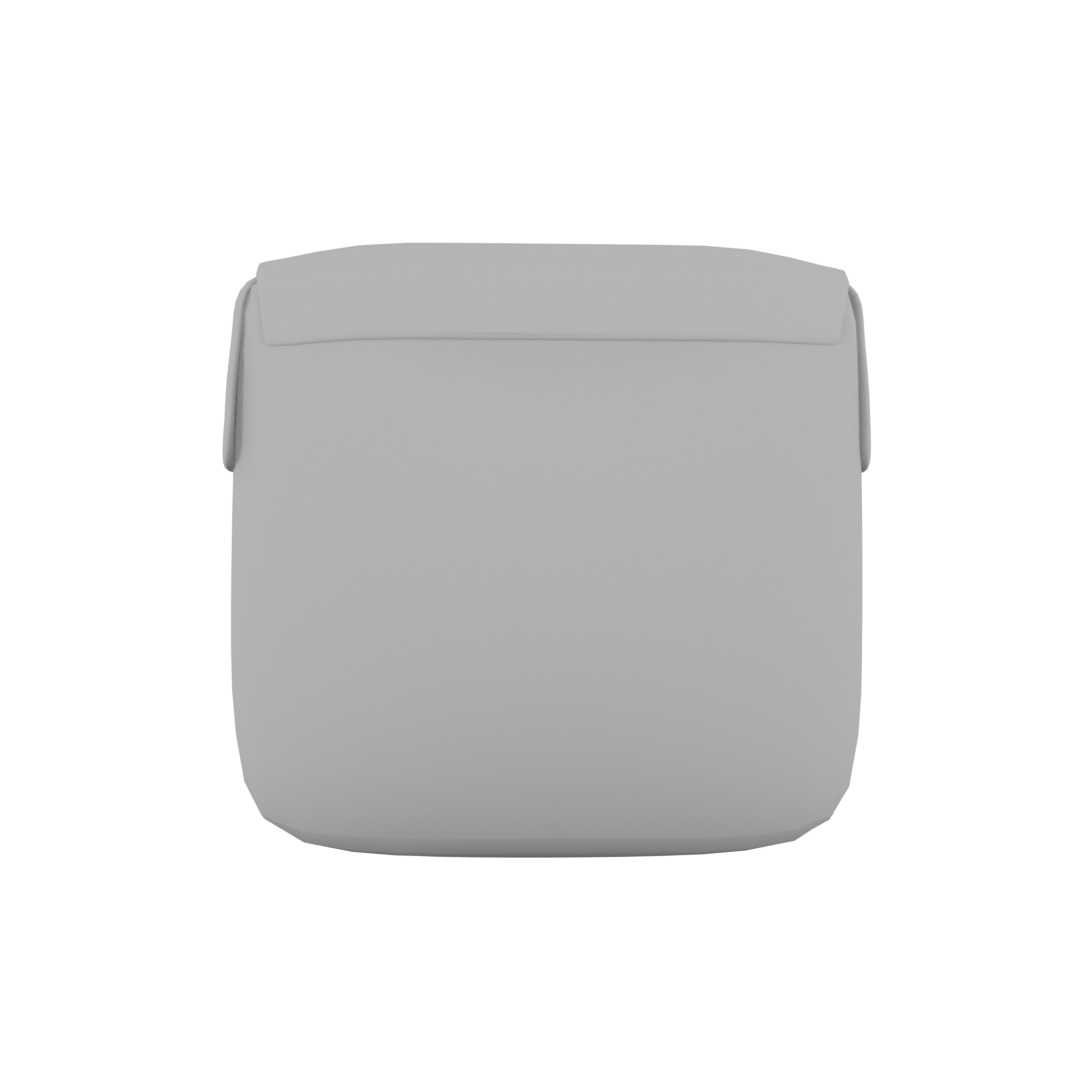
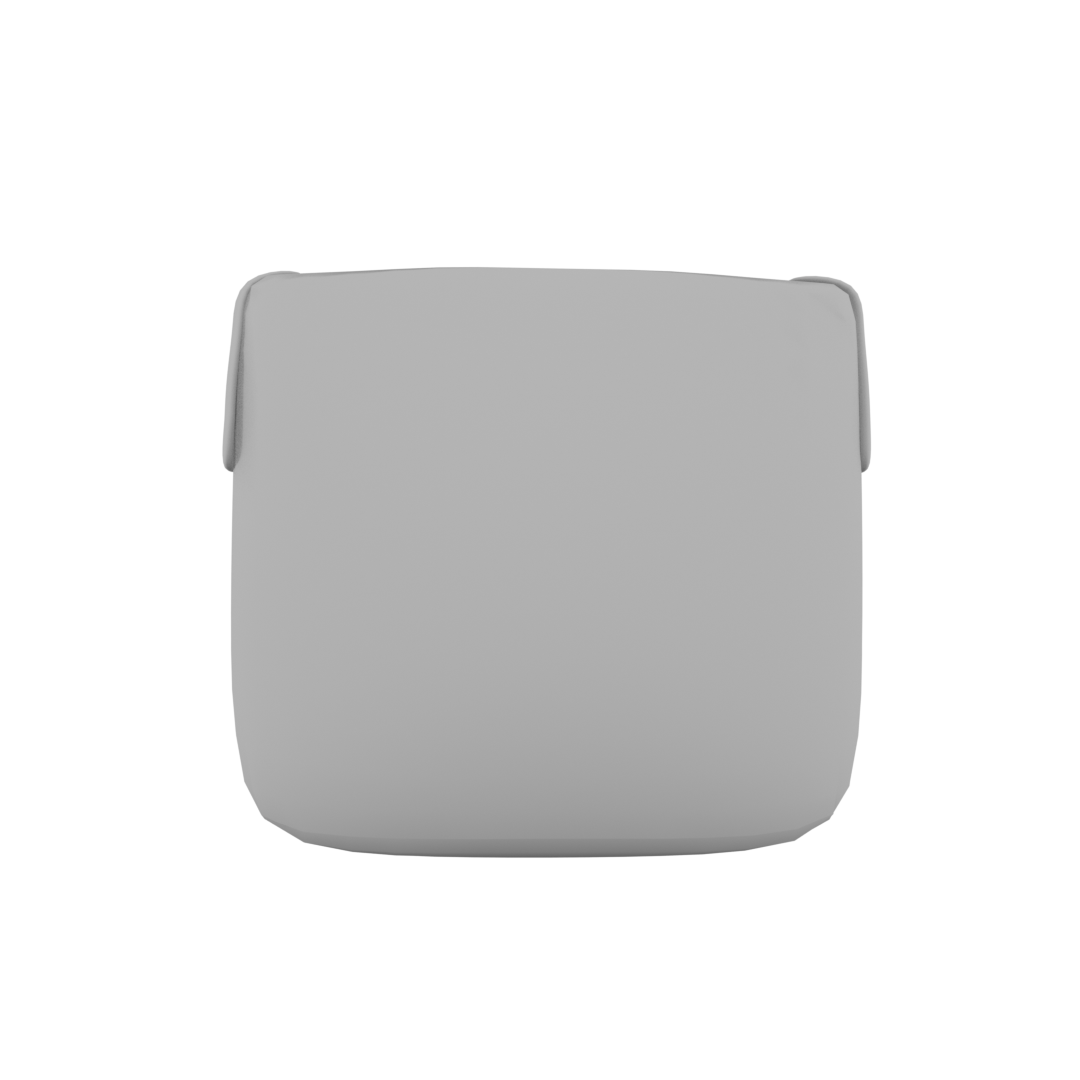
change kompartemen and fixing detail part

Changed region(s): [[0.2444, 0.2139, 0.7944, 0.275]]

diff --git a/Frontend/src/components/ProtoV2/BagCustomizer3D.tsx b/Frontend/src/components/ProtoV2/BagCustomizer3D.tsx
@@ -8,7 +8,8 @@ import Breadcrumb from "../Common/Breadcrumb";
 const COLOR_PALETTE = [
   { id: "badan", name: "Badan Tas", canHide: false, colorsSolid: ["#4B5563", "#60A5FA", "#F472B6"], colorsLeather: ["#AC7434", "#88572B", "#612718", "#654321", "#954535", "#C4B289"] },
   { id: "tali", name: "Tali Bahu", colors: ["#000000", "#FFFFFF"], canHide: false },
-  { id: "telinga", name: "Telinga Tas", canHide: true, colorsSolid: ["#EF4444", "#A855F7", "#22C55E"], colorsLeather: ["#AC7434", "#88572B", "#612718", "#654321", "#954535", "#C4B289"] },
+  { id: "tali2", name: "Tali Bahu", colors: ["#000000", "#FFFFFF"], canHide: false },
+  { id: "telinga", name: "Telinga Tas (Penutup)", canHide: true, colorsSolid: ["#EF4444", "#A855F7", "#22C55E"], colorsLeather: ["#AC7434", "#88572B", "#612718", "#654321", "#954535", "#C4B289"] },
   { id: "sayap", name: "Sayap Tas", colors: ["#000000", "#4B5563", "#DC2626"], canHide: true },
   { id: "detail", name: "Detail (Mata & Taring)", colors: ["#FCD34D", "#FFFFFF", "#000000"], canHide: true },
 ];
@@ -24,18 +25,19 @@ const PREMIUM_COLORS = ["#60A5FA", "#F472B6", "#EF4444", "#A855F7", "#22C55E", "
 
 export default function BagCustomizer3D() {
   const [colors, setColors] = useState<Record<string, string>>({
-    badan: "#F472B6", tali: "#FFFFFF", telinga: "#22C55E", sayap: "#000000", detail: "#FCD34D",
+    badan: "#F472B6", tali: "#FFFFFF",tali2: "#FFFFFF", telinga: "#22C55E", sayap: "#000000", detail: "#FCD34D",
   });
 
   const [visibleParts, setVisibleParts] = useState<Record<string, boolean>>({
-    badan: true, tali: true, telinga: true, sayap: true, detail: true,
+    badan: true, tali: true,tali2: true, telinga: true, sayap: true, detail: true,
   });
 
-  const [activeView, setActiveView] = useState("360");
+  const [activeView, setActiveView] = useState("depan"); // Diubah ke "depan" untuk testing awal
   
-  // Dua State terpisah untuk Material
+  // STATE MATERIAL DAN KOMPARTEMEN
   const [bodyMaterial, setBodyMaterial] = useState("base");
   const [telingaMaterial, setTelingaMaterial] = useState("base");
+  const [kompartemen, setKompartemen] = useState("kancing"); // "kancing" atau "pengait"
 
   const handleColorChange = (partId: string, colorHex: string) => {
     setColors((prev) => ({ ...prev, [partId]: colorHex }));
@@ -53,27 +55,33 @@ export default function BagCustomizer3D() {
     } else if (partId === "telinga") {
       setTelingaMaterial(materialType);
       if (materialType === "base") setColors(prev => ({ ...prev, telinga: "#22C55E" }));
-      else if (materialType === "leather") setColors(prev => ({ ...prev, telinga: "#654321" })); // Default Leather beda agar kontras
+      else if (materialType === "leather") setColors(prev => ({ ...prev, telinga: "#654321" }));
     }
   };
 
   const calculatePrice = () => {
     let total = 850000; 
+    
+    // Biaya Tambahan Komponen
     if (visibleParts.telinga) {
       total += 100000; 
-      // Tambah harga jika penutupnya dari Leather
       if (telingaMaterial === "leather") total += 75000; 
     }
     if (visibleParts.sayap) total += 200000;   
     if (visibleParts.detail) total += 50000;   
 
-    // Tambah harga jika badannya Leather
+    // Biaya Tambahan Material Badan
     if (bodyMaterial === "leather") total += 150000; 
 
+    // Biaya Tambahan Pengait
+    if (kompartemen === "pengait") total += 50000; // Hardware pengait tambah Rp 50.000
+
+    // Biaya Warna Premium
     Object.entries(colors).forEach(([part, hex]) => {
-      const isPartActive = visibleParts[part] || part === "badan" || part === "tali";
+      const isPartActive = visibleParts[part] || part === "badan" || part === "tali"  || part === "tali2";
       if (isPartActive && PREMIUM_COLORS.includes(hex)) total += 25000; 
     });
+    
     return total;
   };
 
@@ -91,15 +99,16 @@ export default function BagCustomizer3D() {
         <div className="max-w-[1280px] w-full mx-auto px-4 sm:px-6 lg:px-8">
           <div className="flex flex-col lg:flex-row bg-white rounded-xl shadow-[0_4px_20px_rgba(0,0,0,0.03)] border border-gray-100 overflow-hidden lg:h-[750px]">
             
+            {/* KIRI: PREVIEW AREA */}
             <div className="w-full lg:w-[55%] p-6 lg:p-10 border-b lg:border-b-0 lg:border-r border-gray-100 relative flex flex-col bg-[#f8f9fa] overflow-hidden">
               <div className="absolute w-[600px] h-[600px] rounded-full bg-[radial-gradient(circle,rgba(0,102,255,0.04)_0%,transparent_70%)] pointer-events-none left-1/2 top-1/2 -translate-x-1/2 -translate-y-1/2"></div>
 
               <div className="flex-grow flex flex-col items-center justify-center w-full relative z-10 pt-4">
                 {activeView === "360" && <ProductViewer colors={colors} visibleParts={visibleParts} bodyMaterial={bodyMaterial} />}
-                {activeView === "depan" && <FrontViewer colors={colors} visibleParts={visibleParts} bodyMaterial={bodyMaterial} telingaMaterial={telingaMaterial} />}
+                {/* PROPS KOMPARTEMEN DIKIRIM KE FRONTVIEWER */}
+                {activeView === "depan" && <FrontViewer colors={colors} visibleParts={visibleParts} bodyMaterial={bodyMaterial} telingaMaterial={telingaMaterial} kompartemen={kompartemen} />}
                 {activeView === "belakang" && <BackViewer colors={colors} visibleParts={visibleParts} bodyMaterial={bodyMaterial} telingaMaterial={telingaMaterial} />}
-                {activeView === "atas" && <TopViewer colors={colors} visibleParts={visibleParts} bodyMaterial={bodyMaterial} />}
-              </div>
+{activeView === "atas" && <TopViewer colors={colors} visibleParts={visibleParts} bodyMaterial={bodyMaterial} kompartemen={kompartemen} />}              </div>
 
               <div className="mt-6 flex justify-center z-20 pb-2">
                 <div className="flex items-center gap-3 bg-[#f8f9fa] px-4 py-2.5 rounded-2xl border border-[#cbd5e1] shadow-sm">
@@ -119,13 +128,40 @@ export default function BagCustomizer3D() {
               </div>
             </div>
 
+            {/* KANAN: CONTROL PANEL */}
             <div className="w-full lg:w-[45%] flex flex-col h-full bg-white">
                <div className="px-8 lg:px-12 pt-10 pb-6 border-b border-gray-100">
                 <h2 className="text-[32px] font-extrabold text-[#111827] mb-2 tracking-tight">Design Your Bag</h2>
-                <p className="text-[#6b7280] text-[15px] leading-relaxed">Sesuaikan warna dan material tas.</p>
+                <p className="text-[#6b7280] text-[15px] leading-relaxed">Sesuaikan warna, material, dan aksesoris tas.</p>
               </div>
 
               <div className="flex-grow overflow-y-auto px-8 lg:px-12 py-6 flex flex-col gap-7 scrollbar-thin scrollbar-thumb-gray-200 scrollbar-track-transparent">
+                
+                {/* TAMBAHAN UI: PILIHAN KOMPARTEMEN (KANCING/PENGAIT) */}
+                <div className="pb-7 border-b border-gray-100">
+                  <div className="flex items-center justify-between mb-4">
+                    <div className="flex items-center gap-3 font-bold text-[#111827] text-[13px] uppercase tracking-wider">
+                      <span>Tipe Kompartemen</span>
+                    </div>
+                  </div>
+                  <div className="flex bg-[#f1f5f9] p-1 rounded-lg w-max">
+                    <button 
+                      onClick={() => setKompartemen("kancing")} 
+                      className={`px-6 py-2 text-[13px] font-bold rounded-md transition-all duration-200 ${kompartemen === "kancing" ? "bg-white text-[#4154f1] shadow-sm" : "text-gray-500 hover:text-[#4154f1]"}`}
+                    >
+                      Kancing
+                    </button>
+                    <button 
+                      onClick={() => setKompartemen("pengait")} 
+                      className={`px-6 py-2 text-[13px] font-bold rounded-md transition-all duration-200 ${kompartemen === "pengait" ? "bg-white text-[#4154f1] shadow-sm" : "text-gray-500 hover:text-[#4154f1]"}`}
+                      title="+ Rp 50.000"
+                    >
+                      Pengait Sabuk
+                    </button>
+                  </div>
+                </div>
+
+                {/* LOOPING WARNA PALETTE */}
                 {COLOR_PALETTE.map((part) => {
                   const isVisible = visibleParts[part.id];
                   

diff --git a/Frontend/src/components/StaticViewers.jsx b/Frontend/src/components/StaticViewers.jsx
@@ -26,6 +26,11 @@ function TasMiniPart({ folder, partName, color, isVisible, textureType = "Base" 
     maskFile = "Mask-trim-penutup.png";
     baseFile = "Base-trim-penutup.png";
   }
+  // TAMBAHAN BARU: Aturan untuk Pengait 2 (Tali Penutup)
+  else if (partName === "pengait2") {
+    maskFile = "Mask-pengait2.png";
+    baseFile = textureType === "leather" ? "Texture-pengait2.png" : "Base-pengait2.png";
+  }
 
   return (
     <div className="absolute inset-0 flex items-center justify-center pointer-events-none">
@@ -66,13 +71,14 @@ function StaticOverlay({ folder, fileName, zIndex = "z-50" }) {
 // ==========================================
 // 2. VIEWER DEPAN (Folder: Base)
 // ==========================================
-export function FrontViewer({ colors, visibleParts, bodyMaterial, telingaMaterial }) {
+export function FrontViewer({ colors, visibleParts, bodyMaterial, telingaMaterial, kompartemen = "kancing" }) {
   // Memisahkan penangkap material (Badan bisa beda material dengan Penutup)
   const texBody = bodyMaterial === "leather" ? "leather" : "Base";
   
   // Jika kode mu sebelumnya belum mengirimkan telingaMaterial, kita pasang fallback ke 'Base'
   const texPenutup = telingaMaterial === "leather" ? "leather" : "Base";
 
+  const isPenutupVisible = visibleParts?.telinga ?? true;
   return (
     <div className="w-full h-[500px] bg-[#f2f2f2] rounded-lg overflow-hidden relative flex items-center justify-center p-10">
       
@@ -93,11 +99,42 @@ export function FrontViewer({ colors, visibleParts, bodyMaterial, telingaMateria
 
       {/* 4. Trim Penutup (z-40) */}
       <div className="absolute inset-0 z-40">
-        <TasMiniPart folder="Base" partName="trim-penutup" color={colors.tali} isVisible={visibleParts?.telinga ?? true} />
+        <TasMiniPart folder="Base" partName="trim-penutup" color={colors.tali2} isVisible={visibleParts?.telinga ?? true} />
       </div>
 
-      {/* 5. Kancing Statis (z-50) */}
-      <StaticOverlay folder="Base" fileName="Base-kancing.png" zIndex="z-50" />
+       <StaticOverlay folder="Base" fileName="Base-kancing3.png" zIndex="z-50" />
+
+      {/* 5. Kancing Dinamis (z-50) */}
+      
+      {kompartemen === "kancing" ? (
+        <>
+          {/* Jika modenya KANCING */}
+          {!isPenutupVisible && <StaticOverlay folder="Base" fileName="Base-kancing1.png" zIndex="z-50" />}
+          {isPenutupVisible && <StaticOverlay folder="Base" fileName="Base-kancing2.png" zIndex="z-50" />}
+        </>
+      ) : (
+        <>
+          {/* Jika modenya PENGAIT */}
+          {/* Pengait 1: Hardware besi di badan tas (selalu muncul) */}
+          <StaticOverlay folder="Base" fileName="Base-pengait1.png" zIndex="z-50" />
+          
+          {/* Pengait 2: Tali kulit yang menempel di penutup. Memiliki warna & tekstur yang sama persis dengan Penutup, dan ikut hilang jika penutup dimatikan */}
+          <div className="absolute inset-0 z-[50]">
+            <TasMiniPart 
+              folder="Base" 
+              partName="pengait2" 
+              color={colors.telinga} 
+              isVisible={isPenutupVisible} 
+              textureType={texPenutup} 
+            />
+          </div>
+
+          {/* Pengait 3: Hardware tambahan di penutup (HANYA muncul jika penutup DITAMPILKAN) */}
+          {isPenutupVisible && (
+            <StaticOverlay folder="Base" fileName="Base-pengait3.png" zIndex="z-[60]" />
+          )}
+        </>
+      )}
       
     </div>
   );
@@ -106,20 +143,43 @@ export function FrontViewer({ colors, visibleParts, bodyMaterial, telingaMateria
 // ==========================================
 // 3. VIEWER BELAKANG (Folder: Back)
 // ==========================================
+// ==========================================
+// 3. VIEWER BELAKANG (Folder: Back) - DIUPDATE
+// ==========================================
 export function BackViewer({ colors, visibleParts, bodyMaterial, telingaMaterial }) {
+  // Tangkap pilihan material untuk Badan dan Penutup
   const texBody = bodyMaterial === "leather" ? "leather" : "Base";
   const texPenutup = telingaMaterial === "leather" ? "leather" : "Base";
 
   return (
     <div className="w-full h-[500px] bg-[#f2f2f2] rounded-lg overflow-hidden relative flex items-center justify-center p-10">
+      
+      {/* 1. Badan Utama (z-10) */}
       <div className="absolute inset-0 z-10">
         <TasMiniPart folder="Back" partName="body" color={colors.badan} isVisible={true} textureType={texBody} />
       </div>
+
+      {/* 2. Trim Badan (z-20) */}
+      <div className="absolute inset-0 z-10">
+        <TasMiniPart folder="Back" partName="trim-badan" color={colors.tali} isVisible={true} />
+      </div>
+
+      {/* 3. Penutup (z-30) - Berubah material mengikuti telingaMaterial */}
       <div className="absolute inset-0 z-20">
         <TasMiniPart folder="Back" partName="penutup" color={colors.telinga} isVisible={visibleParts?.telinga ?? true} textureType={texPenutup} />
       </div>
+
+      {/* 4. Trim Penutup (z-40) - Ikut hilang jika penutup dimatikan */}
+      <div className="absolute inset-0 z-40">
+        <TasMiniPart folder="Back" partName="trim-penutup" color={colors.tali2} isVisible={visibleParts?.telinga ?? true} />
+      </div>
+
+      {/* 5. Tali Belakang Statis (z-50) */}
       <StaticOverlay folder="Back" fileName="Base-tali.png" zIndex="z-30" />
-      <StaticOverlay folder="Back" fileName="Base-kancing.png" zIndex="z-40" />
+
+      {/* 6. Kancing Belakang Statis (z-[60] menggunakan kurung siku karena melebihi z-50 bawaan Tailwind) */}
+      <StaticOverlay folder="Back" fileName="Base-kancing.png" zIndex="z-5" />
+
     </div>
   );
 }
@@ -127,16 +187,30 @@ export function BackViewer({ colors, visibleParts, bodyMaterial, telingaMaterial
 // ==========================================
 // 4. VIEWER ATAS (Folder: Top)
 // ==========================================
-export function TopViewer({ colors, visibleParts, bodyMaterial }) {
+// ==========================================
+// 4. VIEWER ATAS (Folder: Top) - DIUPDATE
+// ==========================================
+export function TopViewer({ colors, visibleParts, bodyMaterial, kompartemen = "kancing" }) {
   const texBody = bodyMaterial === "leather" ? "leather" : "Base";
 
   return (
     <div className="w-full h-[500px] bg-[#f2f2f2] rounded-lg overflow-hidden relative flex items-center justify-center p-10">
-      <div className="absolute inset-0 z-10">
+      
+      {/* 1. Badan Tas */}
+      <div className="absolute inset-0 z-20">
         <TasMiniPart folder="Top" partName="body" color={colors.badan} isVisible={true} textureType={texBody} />
       </div>
-      <StaticOverlay folder="Top" fileName="Base-tali.png" zIndex="z-20" />
-      <StaticOverlay folder="Top" fileName="Base-kancing.png" zIndex="z-30" />
+      
+      {/* 2. Tali Statis */}
+      <StaticOverlay folder="Top" fileName="Base-tali.png" zIndex="z-[5]" />
+      
+      {/* 3. Kompartemen Dinamis (Kancing vs Pengait) */}
+      {kompartemen === "kancing" ? (
+        <StaticOverlay folder="Top" fileName="Base-kancing.png" zIndex="z-10" />
+      ) : (
+        <StaticOverlay folder="Top" fileName="Base-pengait.png" zIndex="z-10" />
+      )}
+      
     </div>
   );
 }
